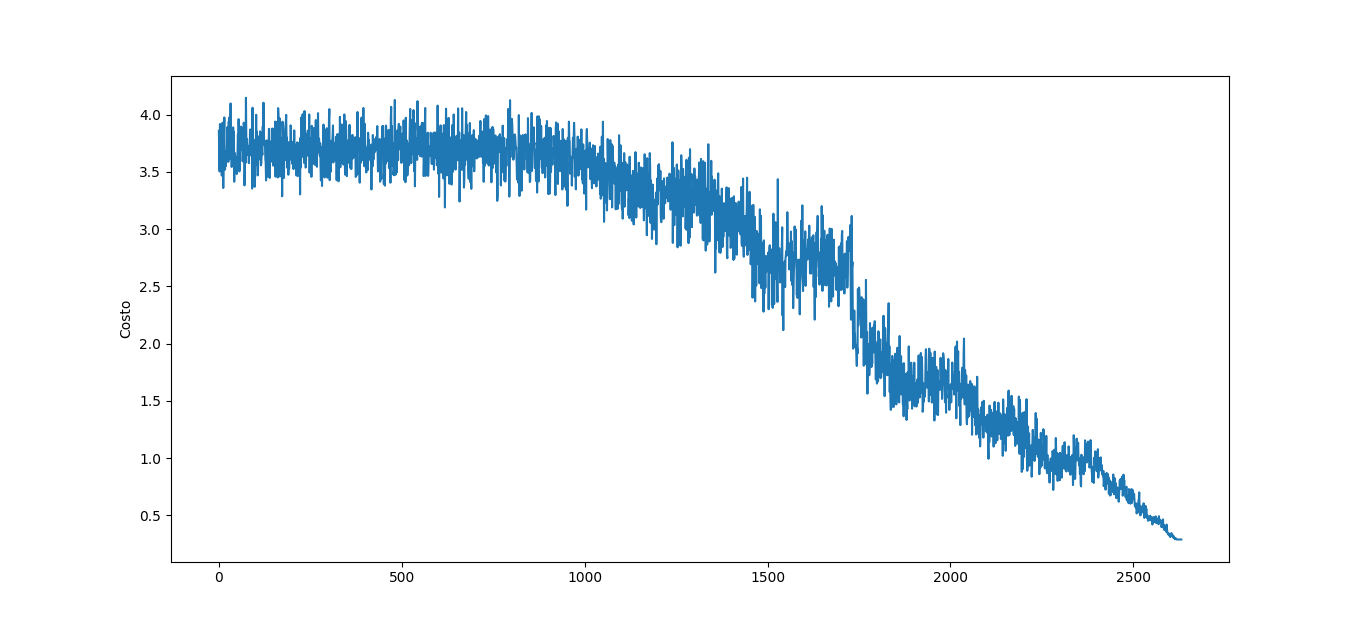
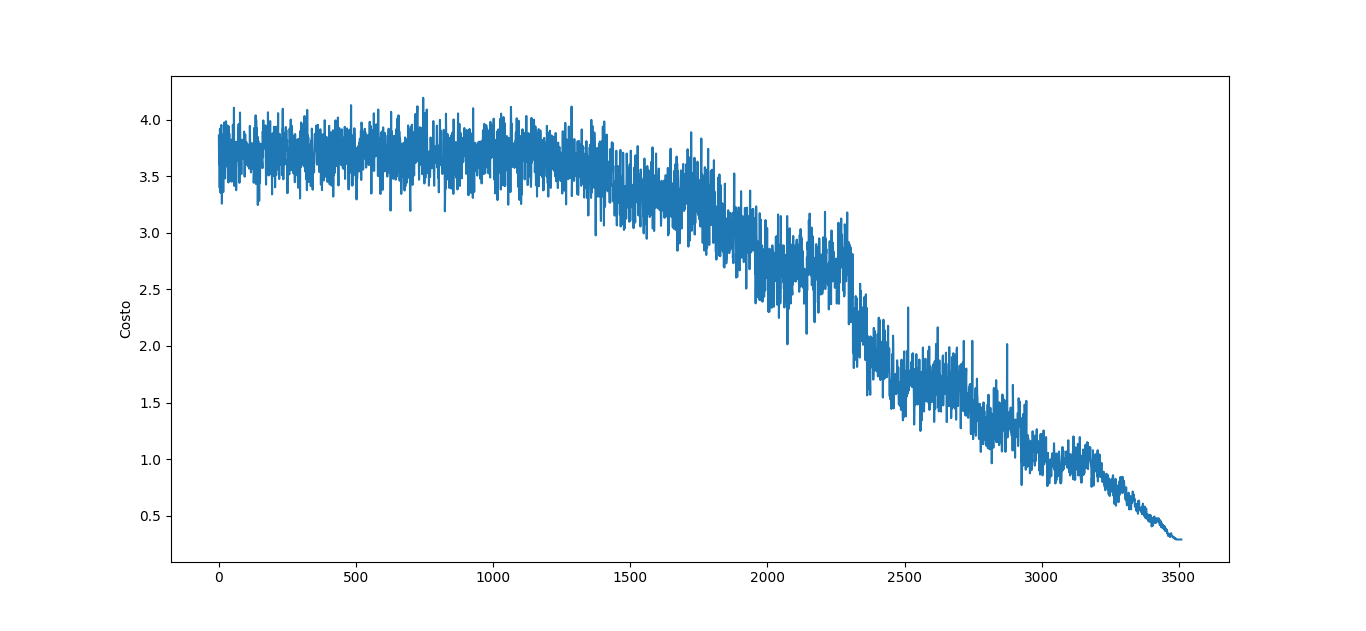
Método para leer ciudades de un archivo

diff --git a/src/tsp/Recocido.java b/src/tsp/Recocido.java
@@ -11,6 +11,8 @@ import java.util.*;
  */
 public class Recocido extends Thread{
 
+    private static int[] ciudades; /* Arreglo de ciudades sobre el que se realiza el recocido */
+    
     /**
      * Escribe la solución en un archivo
      * @param s - La solución a escribir.
@@ -28,55 +30,86 @@ public class Recocido extends Thread{
 	    System.err.println(e.getMessage());
 	}
     }
+
+    /** 
+     * Lee el conjunto de ciudades al cuál se le aplica el recocido desde un archivo.
+     * El archivo debe tener un conjunto de enteros separados por comas, en la misma línea
+     * Por ejemplo:
+     * 1, 2, 3, 4, 5
+     * @param archivo - Nombre del archivo con el conjunto de ciudades. 
+     */
+    public static void leeCiudades(String archivo){
+	BufferedReader br = null;
+	try{
+	    File file = new File(archivo); /* Archivo a leer */
+	    FileReader fr = new FileReader(file);
+	    br = new BufferedReader(fr);
+	    String s = br.readLine(); /* Esperamos que todas las ciudades estén en la misma línea */
+	    String[] enteros = s.split(", ");
+	    ciudades = new int[enteros.length];
+	    int cont = 0; /* contador */
+	    for(String ent: enteros)
+		ciudades[cont++] = Integer.parseInt(ent);
+	}catch(FileNotFoundException e){
+	    System.err.println("El archivo no existe");
+	}catch(IOException e){
+	    System.err.println(e.getMessage());
+	}finally{
+	    try{if(br != null)br.close();}catch(Exception e){}
+	}
+    }
     
     public static void main(String[] args){
-	int[] ciudadesCanek = {1, 5, 9, 12, 16, 22, 23, 29, 30, 31,
-			       39, 48, 52, 56, 58, 62, 65, 66, 70, 75,
-			       80, 84, 86, 90, 92, 94, 95, 101, 107,
-			       117, 119, 122, 133, 135, 143, 144, 146,
-			       147, 150, 158, 159, 160, 166, 167, 176,
-			       178, 179, 185, 186, 188, 190, 191, 194,
-			       198, 200, 203, 207, 209, 213, 215, 216,
-			       220, 221, 224, 227, 232, 233, 235, 238,
-			       241, 244, 248, 250, 254, 264, 266, 274, 276};
-	//long startingSeed = Long.parseLong(args[0]);
-	//long endingSeed = Long.parseLong(args[1]);
-	//for(long i = startingSeed; i < endingSeed; ++i){
-	//   TSP.inicializa(i);
-	//   Solucion cruda = new Solucion(ciudadesCanek); /* Solución con las ciudades de Canek */
-	//   Solucion s = TSP.aceptacionPorUmbrales(4.0, cruda); /* Solución tras el recocido */
-	//  escribeArchivo(s, i);
-	//}
-	TSP.inicializa(72);
-	Solucion cruda = new Solucion(ciudadesCanek);
-	Solucion sol = TSP.aceptacionPorUmbralesGuarda(4.0, cruda);
-	System.out.println(sol);
+	leeCiudades("Ciudades.txt");
+	for(int ciudad: ciudades)
+	    System.out.println(ciudad);
+	// int[] ciudadesCanek = {1, 5, 9, 12, 16, 22, 23, 29, 30, 31,
+    // 			       39, 48, 52, 56, 58, 62, 65, 66, 70, 75,
+    // 			       80, 84, 86, 90, 92, 94, 95, 101, 107,
+    // 			       117, 119, 122, 133, 135, 143, 144, 146,
+    // 			       147, 150, 158, 159, 160, 166, 167, 176,
+    // 			       178, 179, 185, 186, 188, 190, 191, 194,
+    // 			       198, 200, 203, 207, 209, 213, 215, 216,
+    // 			       220, 221, 224, 227, 232, 233, 235, 238,
+    // 			       241, 244, 248, 250, 254, 264, 266, 274, 276};
+    // 	long startingSeed = Long.parseLong(args[0]);
+    // 	long endingSeed = Long.parseLong(args[1]);
+    // 	for(long i = startingSeed; i < endingSeed; ++i){
+    // 	   TSP.inicializa(i);
+    // 	   Solucion cruda = new Solucion(ciudadesCanek); /* Solución con las ciudades de Canek */
+    // 	   Solucion s = TSP.aceptacionPorUmbrales(4.0, cruda); /* Solución tras el recocido */
+    // 	  escribeArchivo(s, i);
+    // 	}
+    // 	TSP.inicializa(72);
+    // 	Solucion cruda = new Solucion(ciudadesCanek);
+    // 	Solucion sol = TSP.aceptacionPorUmbralesGuarda(4.0, cruda);
+    // 	System.out.println(sol);
 
-	int factibles = 0;
-	double minCosto = Double.MAX_VALUE;
-	int mejorsemilla = 0;
-	try{
-	    for(int i = 0; i < 150; ++i){
-		File file = new File("pruebas/Corrida" + i + ".txt");
-		FileReader fr = new FileReader(file);
-		BufferedReader br = new BufferedReader(fr);
-		String s;
-		s = br.readLine();
-		String parts[] = s.split(",");
-		Scanner sc = new Scanner(parts[1]);
-		String parts2[] = parts[1].split(" "); 
-		double costo = Double.parseDouble(parts2[2]);
-		if(costo < minCosto){
-		    minCosto = costo;
-		    mejorsemilla = i;
-		}
-		if(s.contains("factible: true"))
-		    factibles++;
-	    }
-	}catch(IOException e){
-	}
-	System.out.println((double)factibles/150.0);
-	System.out.println(minCosto);
-	System.out.println(mejorsemilla);
-    }   
+    // 	int factibles = 0;
+    // 	double minCosto = Double.MAX_VALUE;
+    // 	int mejorsemilla = 0;
+    // 	try{
+    // 	    for(int i = 0; i < 150; ++i){
+    // 		File file = new File("pruebas/Corrida" + i + ".txt");
+    // 		FileReader fr = new FileReader(file);
+    // 		BufferedReader br = new BufferedReader(fr);
+    // 		String s;
+    // 		s = br.readLine();
+    // 		String parts[] = s.split(",");
+    // 		Scanner sc = new Scanner(parts[1]);
+    // 		String parts2[] = parts[1].split(" "); 
+    // 		double costo = Double.parseDouble(parts2[2]);
+    // 		if(costo < minCosto){
+    // 		    minCosto = costo;
+    // 		    mejorsemilla = i;
+    // 		}
+    // 		if(s.contains("factible: true"))
+    // 		    factibles++;
+    // 	    }
+    // 	}catch(IOException e){
+    // 	}
+    // 	System.out.println((double)factibles/150.0);
+    // 	System.out.println(minCosto);
+    // 	System.out.println(mejorsemilla);
+     }   
 }

diff --git a/graficas/graficador.py b/graficas/graficador.py
@@ -1,12 +1,12 @@
 # Graficador soluciones aceptadas en el recocido simulado
 import matplotlib.pyplot as plt
 
-with open('Corrida.txt') as f:
+with open('Corrida.txt') as f: # Los costos deben estar en un archivo llamado Corrida.txt
     lines = f.readlines()
     y = [line.split()[1] for line in lines]
 
 z = []
-for numero in y[0::20]:
+for numero in y[0::15]:
     z.append(numero)
     
 plt.plot(z)
